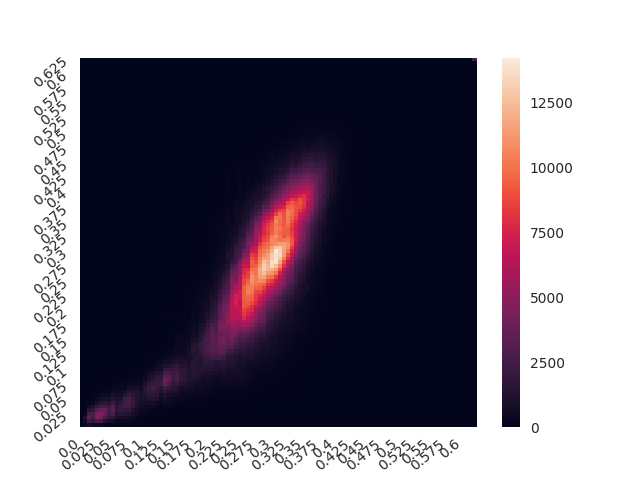
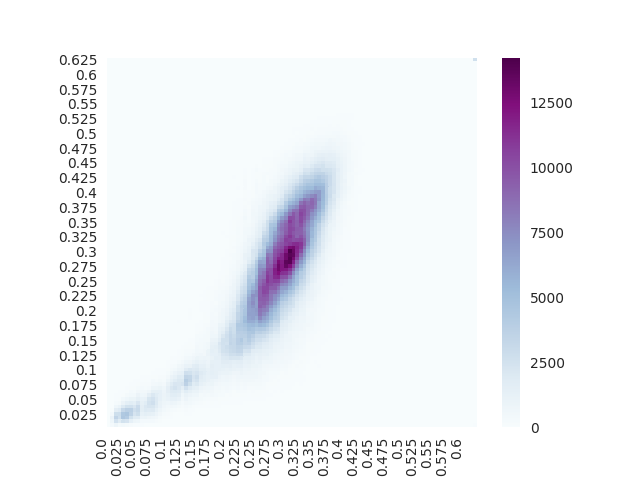
seaborn graph improved

diff --git a/distributed/ParallelHeatMapGen.py b/distributed/ParallelHeatMapGen.py
@@ -181,12 +181,16 @@ if len(sys.argv) == 2:
         plot_step = round(step,2)*math.sqrt(grid_size)/4
         print(minVal, round(maxVal + plot_step,2), plot_step)
         xlabels = np.arange(minVal, round(maxVal + plot_step, 2), plot_step)
+        #xlabels = np.arange(minVal, round(maxVal, 2), round(step,2))
         ylabels = np.flipud(xlabels)
+        #xlabels = np.arange(start=round(minVal, 2))
+        #ylabels = np.linspace(start=minVal, stop=round(maxVal, 2))
         print(xlabels)
         print(len(xlabels))
-        ax = sns.heatmap(heat_grid)
-        ax.set_xticklabels(xlabels, rotation=40, ha="right")
-        ax.set_yticklabels(ylabels, rotation=40, ha="right")
+        ax = sns.heatmap(heat_grid, square=True, cmap="BuPu")
+        print("ax,slim", ax.get_xlim())
+        ax.set_xticklabels(xlabels, rotation=90, ha="right")#, rotation=40, ha="right" can be used with ax.set_xticklabels()
+        ax.set_yticklabels(ylabels, rotation=0, ha="right")
         figure = ax.get_figure()
         figure.savefig("figures/opt_phmg_"+str(grid_size)+"X"+str(grid_size)+".png")
         plt.tight_layout()
